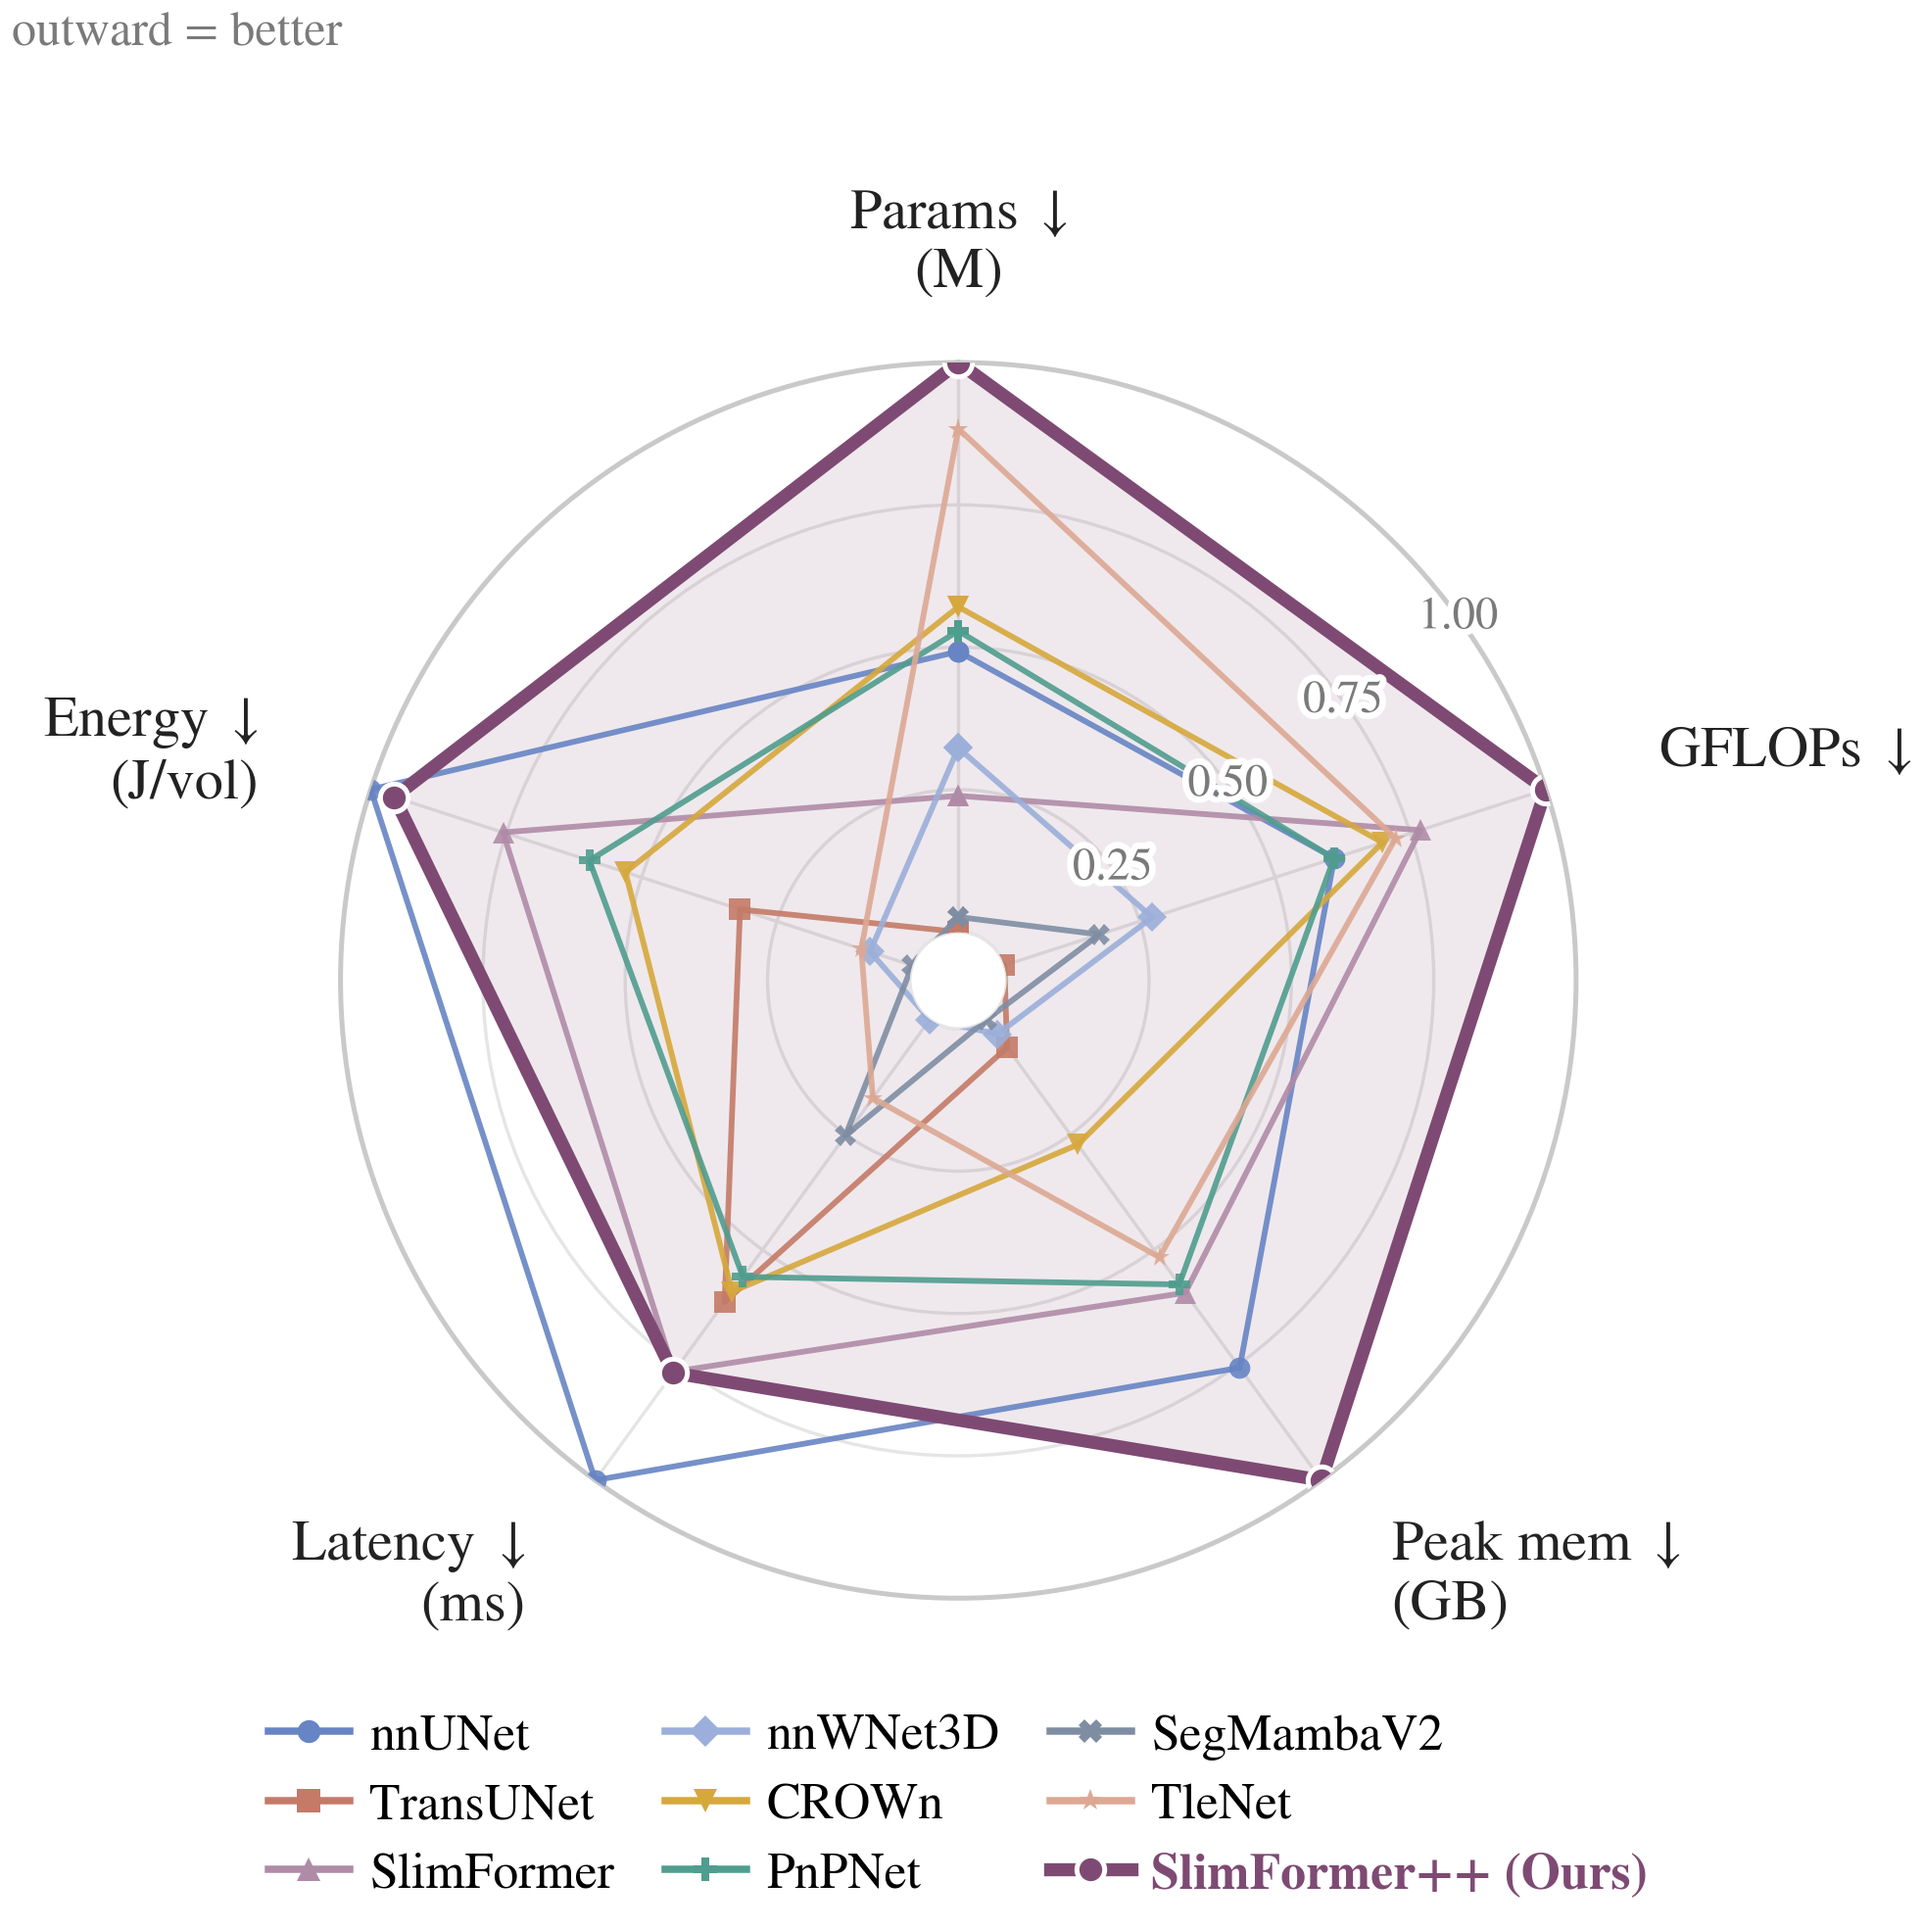
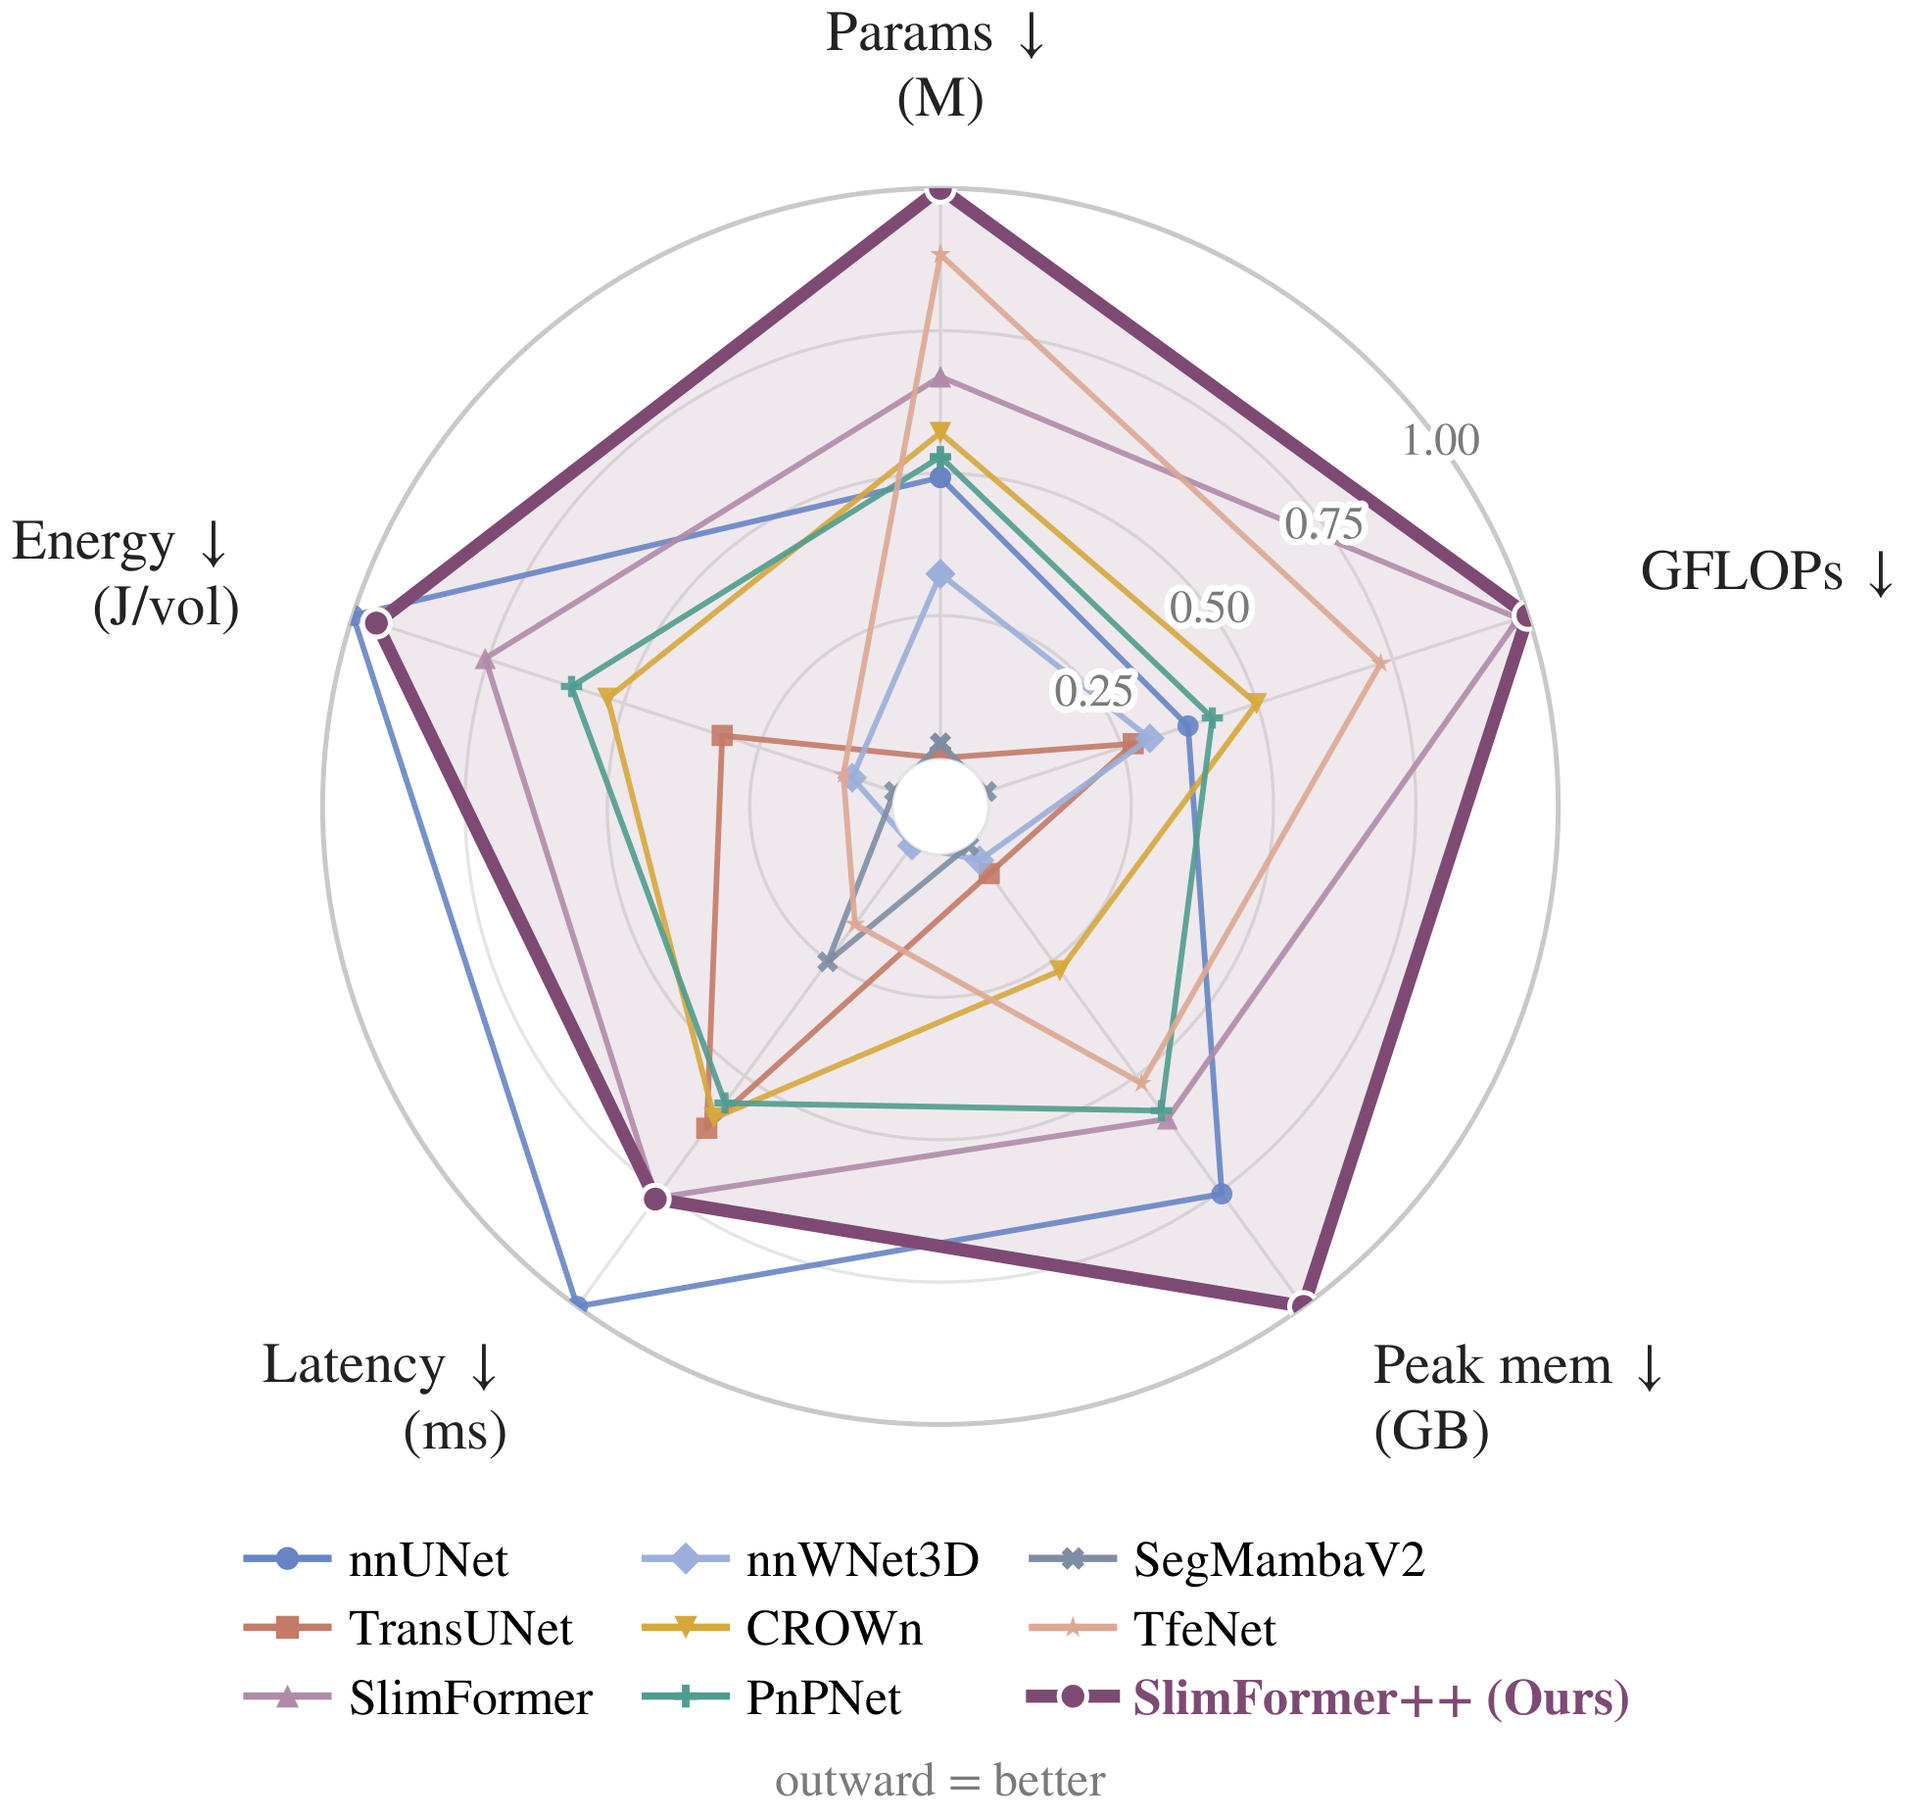
Update performance and efficiency figures

diff --git a/README.md b/README.md
@@ -6,8 +6,8 @@ The model and trainer are in [one file](nnUNetTrainer_SlimFormerPlusPlus.py).
 ## Performance and efficiency
 
 <p align="center">
-  <img src="assets/performance_efficiency_pruning.png" alt="Segmentation performance versus computational cost" width="49%" />
-  <img src="assets/efficiency_radar.png" alt="Normalized efficiency comparison" width="49%" />
+  <img src="assets/performance_efficiency_pruning.png" alt="Segmentation performance versus computational cost" width="53%" />
+  <img src="assets/efficiency_radar.png" alt="Normalized efficiency comparison" width="44%" />
 </p>
 
 Left: segmentation performance versus computational cost. Right: normalized
